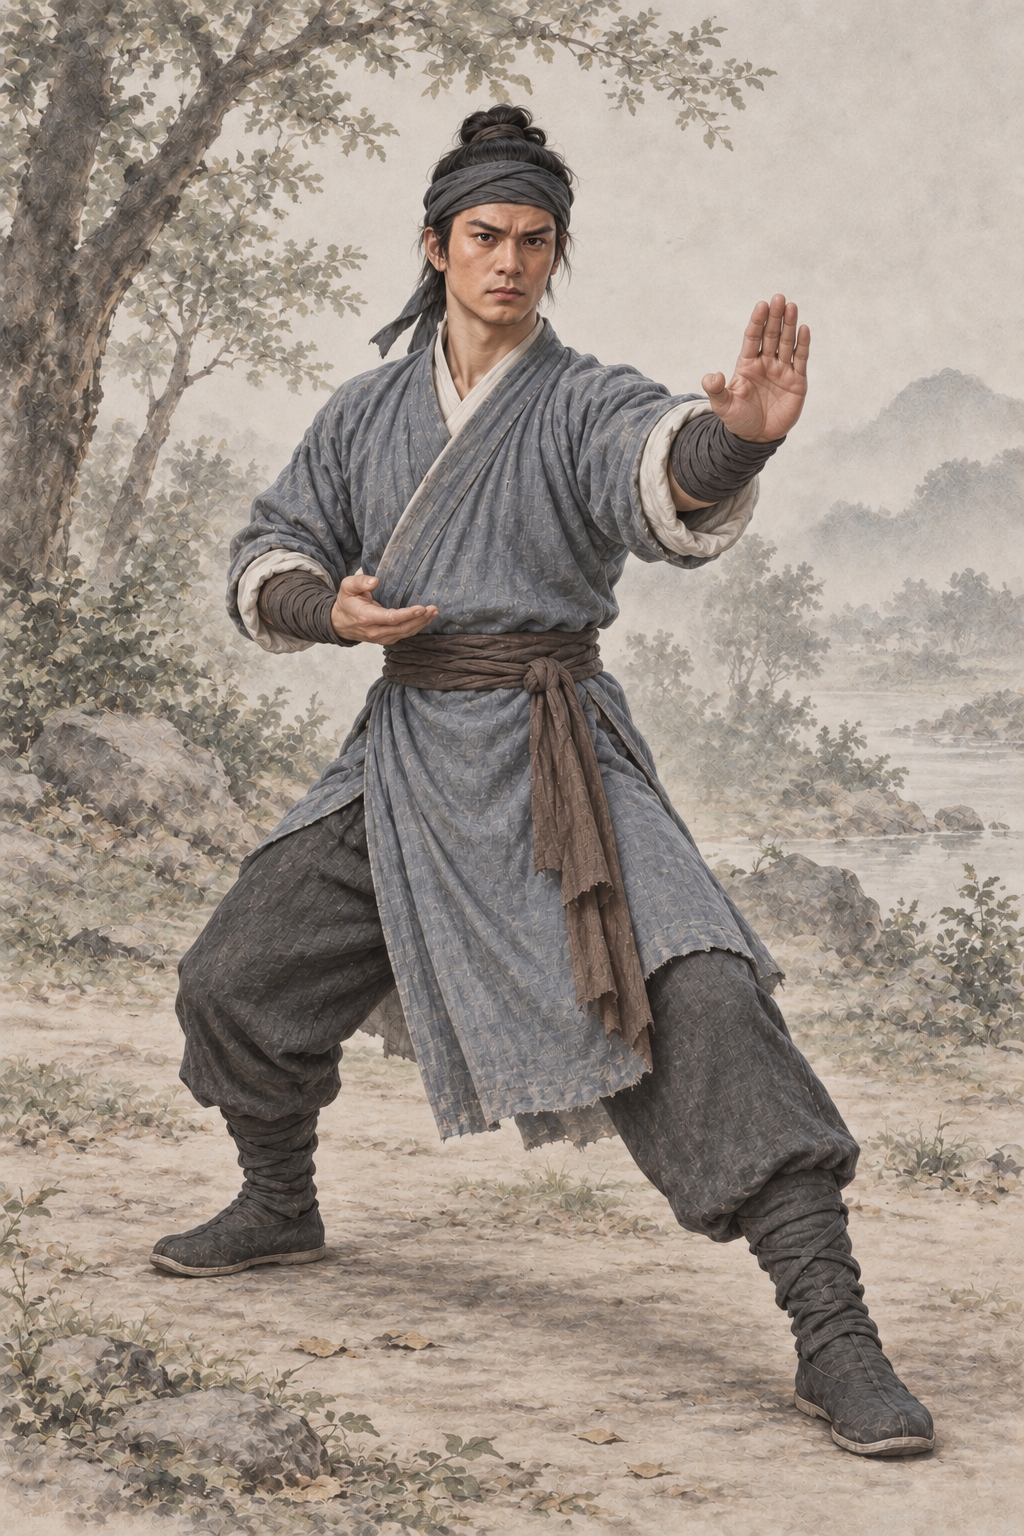
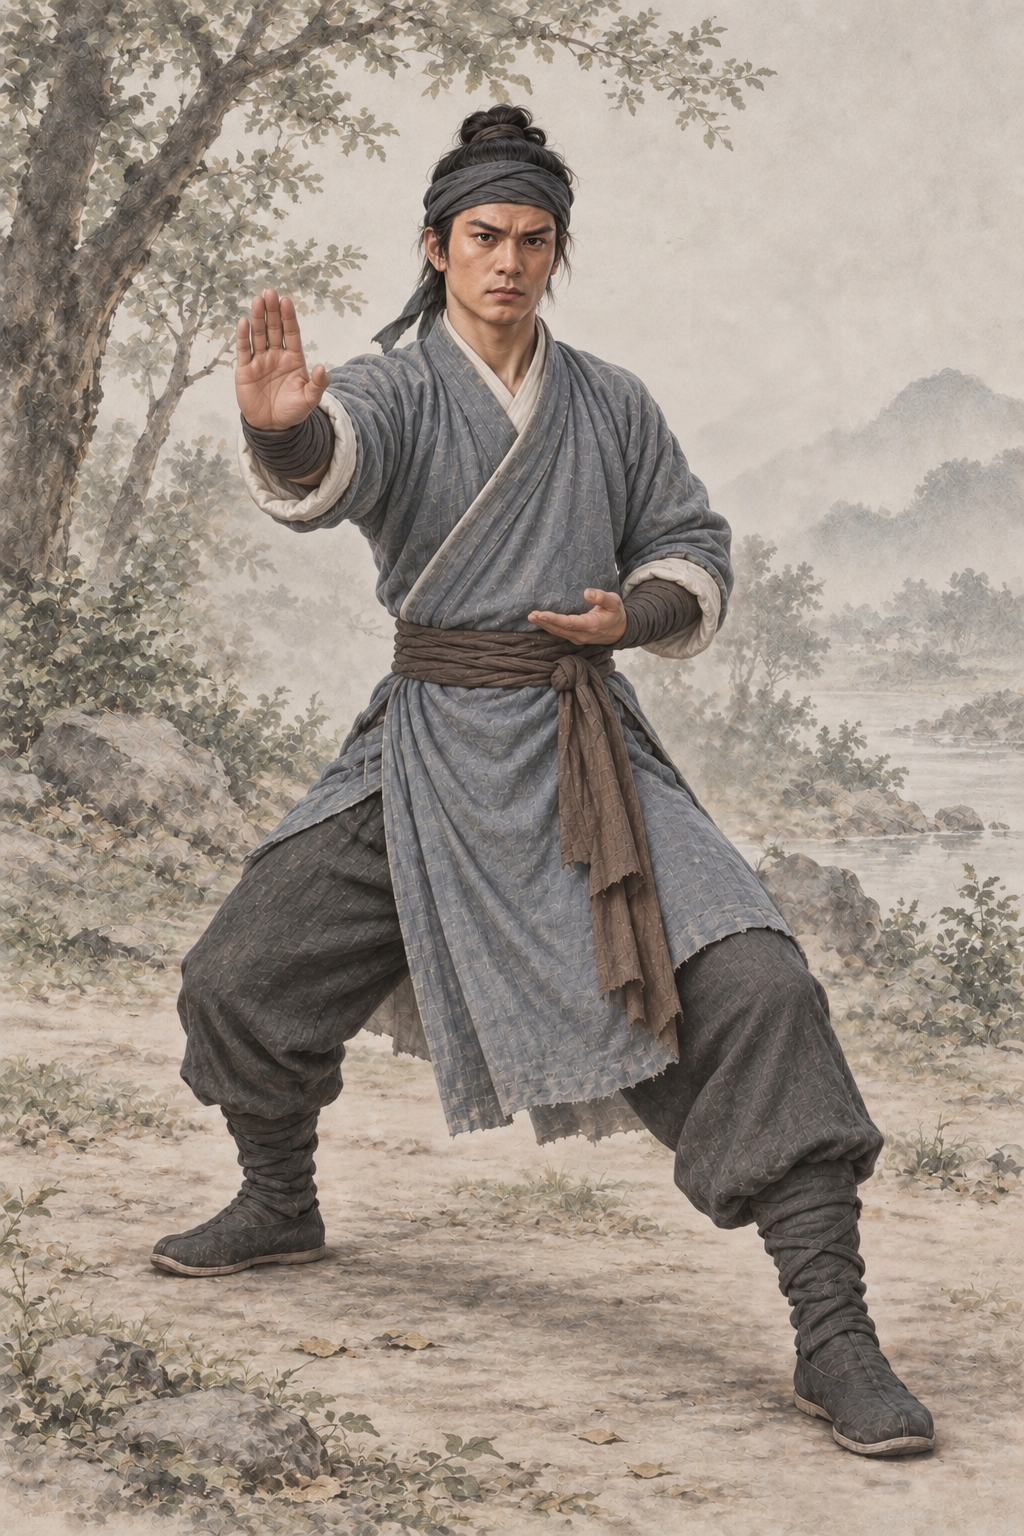
assets: AR-82 原著核对返修 郭靖初学亢龙改右掌划圆推出
原著摘句已同步提示词；已打开验图；蒙版外0像素变化。

Executed-By: Codex gpt-6.1-sol（AR-82）

diff --git a/assets/default/prompts/characters/ch02-shediao/npc_guojing__scene_first_dragon_palm_lesson.md b/assets/default/prompts/characters/ch02-shediao/npc_guojing__scene_first_dragon_palm_lesson.md
@@ -101,3 +101,8 @@ Create a premium REALISTIC Chinese wuxia character illustration with a delicate 
 - 采用作者授权宽松自查；偏差如实记录，candidate不代表approved。
 - 源PNG通常为1024×1536 RGB；其他原生2:3尺寸如实登记，原字节保存，不裁切、重编码、放大或去除溯源。
 - 完整请求、实际参考哈希及旧版本备份见 `.agents/coord/portrait-generation/realism-20261001/por_npc_guojing__ch02_youth_scene_first_dragon_palm_lesson.prepared.json`。
+
+## 原著依据
+
+- 《射雕英雄传》第十二回 亢龙有悔：“右掌划了个圆圈”；https://www.xuges.com/wuxia/jinyong/sdyxz/085.htm
+- AR-82 返修约束（本节优先于历史提示词）：仅修改四肢的亢龙有悔动作：穿着者左腿微屈，穿着者右臂内弯，右掌划圆向外推出；必须是人物自己的右手而不是画面右边。把原画的左手前推调整为右手前推，保持本人头部原位置、大小、朝向、面容和神情，衣服、背景及脚下场地不变。
